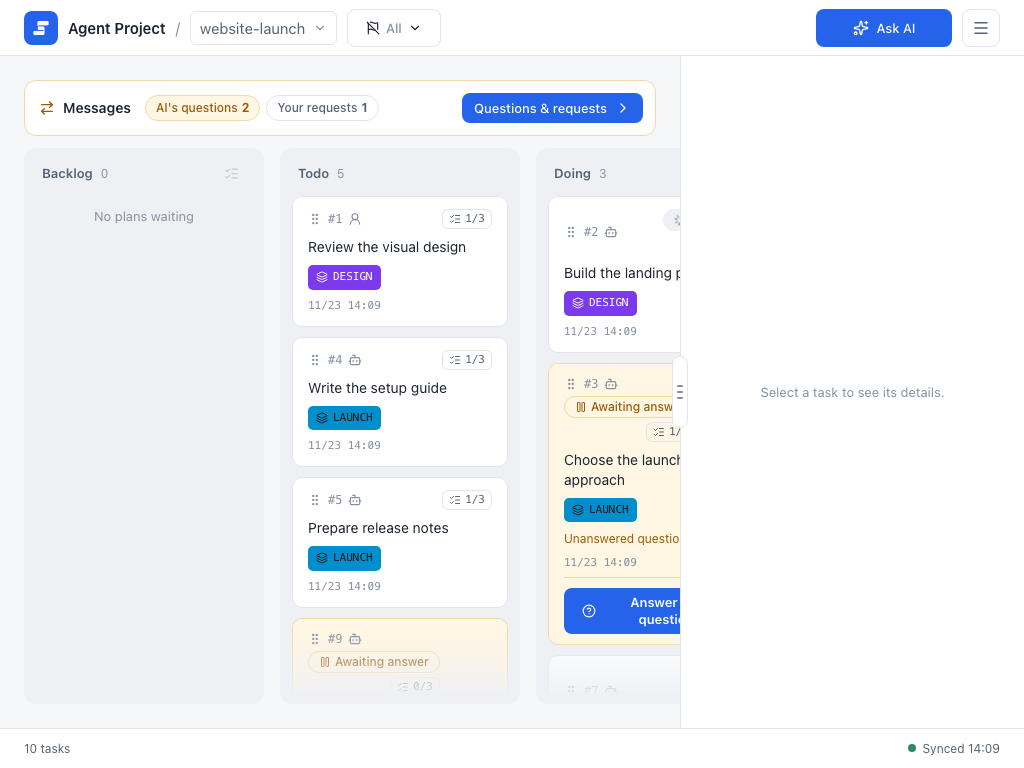
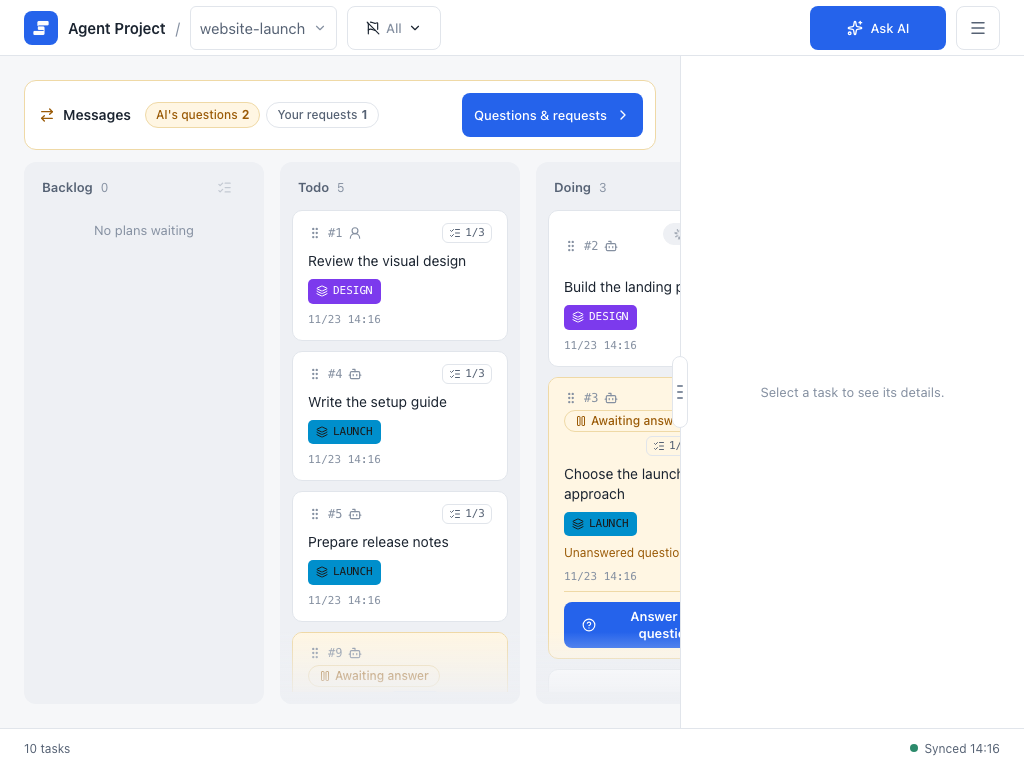
fix: widen the board lanes only on touch screens
Keep the PC layout as it was: lanes stay at a 200px minimum for a fine
pointer. Only a coarse pointer (a tablet) gets 240px lanes and sideways
scrolling. Add a touch E2E check, capture the tablet README images with
touch emulation, and describe the touch-only behavior in the guide.

diff --git a/e2e/tests/layout.spec.ts b/e2e/tests/layout.spec.ts
@@ -144,11 +144,11 @@ for (const width of [1024, 1280, 1920]) {
     expect(boxes[0].x).toBeLessThan(boxes[1].x);
     expect(boxes[1].x).toBeLessThan(boxes[2].x);
     expect(boxes[2].x).toBeLessThan(boxes[3].x);
-    for (const lane of boxes) expect(lane.width).toBeGreaterThanOrEqual(240);
+    for (const lane of boxes) expect(lane.width).toBeGreaterThanOrEqual(200);
     const panelBox = await box(panel(page));
     expect(panelBox.x + panelBox.width).toBe(width);
-    // At 1024px the four lanes scroll sideways inside the board, so only windows of 1400px and wider show them all (four 240px lanes, the 360px panel, and the insets).
-    if (width >= 1400) expect(boxes[3].x + boxes[3].width).toBeLessThanOrEqual(panelBox.x);
+    // At 1024px the four lanes scroll sideways inside the board, so only the wider windows show them all.
+    if (width >= 1280) expect(boxes[3].x + boxes[3].width).toBeLessThanOrEqual(panelBox.x);
     await expect(handle(page)).toBeVisible();
     await task(page, 8).click();
     await expect(panel(page).getByRole('button', { name: 'Close details' })).toBeVisible();
@@ -157,12 +157,12 @@ for (const width of [1024, 1280, 1920]) {
   });
 }
 
-test('1024px: the default width fits beside four lanes (each stays at least 240px)', async ({ page }) => {
+test('1024px: the default width fits beside four lanes (each stays at least 200px)', async ({ page }) => {
   await open(page, 1024);
-  // Four lanes of 240px do not fit beside the default width: the panel shrinks to its smallest width (344px) and the lanes scroll.
+  // Four lanes of 200px do not fit beside the default width: the panel shrinks to its smallest width (344px) and the lanes scroll.
   await expect.poll(() => panelWidth(page)).toBe(344);
   const lanes = await page.locator('.lane').evaluateAll((els) => els.map((e) => e.getBoundingClientRect().width));
-  for (const w of lanes) expect(w).toBeGreaterThanOrEqual(240);
+  for (const w of lanes) expect(w).toBeGreaterThanOrEqual(200);
 });
 
 test('1920px: the extra width goes to the lanes and the panel keeps its width', async ({ page }) => {
@@ -232,7 +232,7 @@ test('1280px: the handle is a vertical separator and the drag stops at the limit
   await dragBy(page, -2000);
   expect(await panelWidth(page)).toBe(560);
   const lanes = await page.locator('.lane').evaluateAll((els) => els.map((e) => e.getBoundingClientRect().width));
-  for (const w of lanes) expect(w).toBeGreaterThanOrEqual(240);
+  for (const w of lanes) expect(w).toBeGreaterThanOrEqual(200);
 
   await dragBy(page, 2000);
   expect(await panelWidth(page)).toBe(280);
@@ -350,4 +350,23 @@ test('evidence screenshots at 1280x900', async ({ page }, testInfo) => {
   await dragBy(page, -120);
   await page.mouse.move(300, 860);
   await page.screenshot({ path: testInfo.outputPath('panel-widened.png') });
+});
+
+test.describe('touch screen', () => {
+  test.use({ hasTouch: true });
+
+  test('1024px: the lanes are 240px wide and the lanes area scrolls sideways', async ({ page }) => {
+    await open(page, 1024, 768);
+    expect(await page.evaluate(() => matchMedia('(pointer: coarse)').matches)).toBe(true);
+    const widths = await page.locator('.lane').evaluateAll((els) => els.map((e) => Math.round(e.getBoundingClientRect().width)));
+    expect(widths).toEqual([240, 240, 240, 240]);
+    const lanes = await page.locator('.board__lanes').evaluate((el) => {
+      el.scrollLeft = el.scrollWidth;
+      const last = document.querySelector('.lane:last-child')!.getBoundingClientRect();
+      return { overflow: getComputedStyle(el).overflowX, scrolls: el.scrollWidth > el.clientWidth, gap: el.getBoundingClientRect().right - last.right };
+    });
+    expect(lanes.overflow).toBe('auto');
+    expect(lanes.scrolls).toBe(true);
+    expect(Math.round(lanes.gap)).toBe(24);
+  });
 });

diff --git a/web/src/shared/styles/app.css b/web/src/shared/styles/app.css
@@ -297,7 +297,7 @@ ol {
 
 .board__lanes {
   display: grid;
-  grid-template-columns: repeat(4, minmax(240px, 1fr));
+  grid-template-columns: repeat(4, minmax(200px, 1fr));
   align-items: stretch;
   gap: 16px;
   height: 100%;
@@ -305,13 +305,22 @@ ol {
   padding: 24px;
 }
 
-/* Four lanes of at least 240px (readable on a 1024px tablet beside the detail panel): a board narrower than
-   that scrolls the lanes sideways inside the board, and the padding at the end keeps the last lane clear. */
-.board__lanes {
-  overflow-x: auto;
+/* The band of messages sits above the lanes; the lanes take the height left. */
+/* Four lanes of at least 200px: a window narrower than that scrolls the lanes sideways inside the board. */
+@media (max-width: 1279px) {
+  .board__lanes {
+    overflow-x: auto;
+  }
 }
 
-/* The band of messages sits above the lanes; the lanes take the height left. */
+/* A touch screen (a tablet in landscape) has no room for four 200px lanes beside the detail panel: keep the lanes
+   readable at 240px and scroll the rest sideways; the padding at the end keeps the last lane clear. */
+@media (pointer: coarse) {
+  .board__lanes {
+    grid-template-columns: repeat(4, minmax(240px, 1fr));
+    overflow-x: auto;
+  }
+}
 
 .board--with-band {
   display: flex;

diff --git a/e2e/tests/responsive.spec.ts b/e2e/tests/responsive.spec.ts
@@ -67,7 +67,7 @@ for (const width of [1024, 1280, 1920]) {
       expect(todo.x).toBeLessThan(doing.x);
       expect(doing.x).toBeLessThan(done.x);
       // At 1024px the four lanes scroll sideways inside the board.
-      if (width >= 1400) expect(done.x + done.width).toBeLessThanOrEqual(panel.x);
+      if (width >= 1280) expect(done.x + done.width).toBeLessThanOrEqual(panel.x);
       // The lanes are as tall as the area between the header and the footer.
       expect(new Set([backlog.height, todo.height, doing.height, done.height]).size).toBe(1);
     }

diff --git a/web/test/layout.test.ts b/web/test/layout.test.ts
@@ -38,7 +38,7 @@ describe('desktop layout', () => {
     expect(rule(css, '.board__lanes')).toMatch(/padding:\s*24px/);
     expect(rule(css, '.board__lanes')).toMatch(/gap:\s*16px/);
     expect(rule(css, '.board__lanes')).toMatch(
-      /grid-template-columns:\s*repeat\(4, minmax\(240px, 1fr\)\)/,
+      /grid-template-columns:\s*repeat\(4, minmax\(200px, 1fr\)\)/,
     );
     expect(rule(css, '.lane')).toMatch(/padding:\s*12px/);
     expect(rule(css, '.lane')).toMatch(/border-radius:\s*var\(--radius-lane\)/);

diff --git a/docs/ja/guide/watch/board.md b/docs/ja/guide/watch/board.md
@@ -152,7 +152,7 @@ title: カンバン
 
 ウィンドウの幅が768ピクセル未満のとき、またスマートフォンでは、カンバンはレーンを横に並べる代わりにモバイル向けの表示になります。バックログ・未着手・進行中・完了のタブに件数が表示され、その下に一度に一つのレーンが表示されます（開いたときは進行中のレーンです）。画面の下には、**カンバン**・**メッセージ**・**依頼**・**アーカイブ**・**設定**のバーがあり、**メッセージ**には回答を待つ質問の数が出て、一覧を開けます。タブをタップするか横にスワイプするとレーンが切り替わります。タスクを選ぶとドロワーで内容を読み、条件にチェックを付け、判断の依頼に回答できます。タスクを長押ししてスワイプすると、隣のレーンへの移動やアーカイブができ（まだ着手されていない「未着手」のタスクを右へスワイプすると、「バックログ」へ戻すボタンが出ます。バックログでは、計画を右へスワイプすると未着手へ動かすボタンが、左へスワイプすると複数を送るための選択ボタンが出ます。レーンを右へ、先頭の端を越えてスワイプしても選択モードが始まります）、完了レーンの端を越えて左へスワイプすると、完了したタスクをすべて選んだ状態でアーカイブの選択が始まります（[アーカイブ](#archive)を参照）。下部のバーの**アーカイブ**ではアーカイブ済みのタスクを確認し、左へスワイプすると復元できます。プロジェクトの切り替えはヘッダーに残り、設定は下部のバーにあります。タスクの追加と編集は、幅のあるウィンドウで行います。
 
-タブレットの横向きなど、幅が768ピクセル以上でも詳細パネルの横に240ピクセル以上のレーンを4本並べられないウィンドウでは、レーンは横に並んだまま、その幅を保ちます。収まらないレーンへは、カンバンを横にスクロールして移ります。最後のレーンの右端には、最初のレーンの左端と同じ余白があります。レーンの上のメッセージの帯は、レーンをスクロールしても動きません。
+iPadの横向きのようなタッチ画面では、詳細パネルの横でレーンが狭くなる場合でも、レーンは240ピクセル以上の幅を保ちます。収まらないレーンへは、カンバンを横にスクロールして移ります。最後のレーンの右端には、最初のレーンの左端と同じ余白があります。レーンの上のメッセージの帯は、レーンをスクロールしても動きません。
 
 表示はウィンドウの幅に合わせてその場で切り替わります。選んだプロジェクトは変わらず、入力したものの送信前の回答も、二つの表示を行き来しても残ります。モバイル向けの表示は[リモートアクセス](./remote-access)で説明しています。
 

diff --git a/docs/guide/watch/board.md b/docs/guide/watch/board.md
@@ -154,7 +154,7 @@ A task's plan is set on the PC. The phone can filter by version, add a version, 
 
 When the window is narrower than 768 pixels, and on a phone, the board shows the mobile layout instead of the lanes side by side: tabs for Backlog, Todo, Doing, and Done with their counts, one lane at a time under them (the board opens on Doing), and a bottom bar with **Board**, **Messages**, **Ask**, **Archive**, and **Settings**; **Messages** shows the number of questions that wait on you and opens the list. Tap a tab or swipe sideways to change lanes. Choose a task to read it in a drawer, check its conditions, and answer a decision. Hold a task and swipe it to move it to the next lane or to archive it (swiping a Todo task to the right shows a button that takes it back to the Backlog if nobody has started it; in the Backlog, swiping a plan to the right shows a button that moves it to Todo and swiping it to the left offers the select button for sending several plans, and swiping the lane to the right past its start starts the selection mode, see [Backlog plans](#backlog-plans)), swipe left past the end of the Done lane to start the archive selection with every completed task picked (see [Archive](#archive)), and use **Archive** in the bottom bar to review archived tasks and restore one by swiping it left. The project switcher stays in the header; settings are in the bottom bar. Adding and editing tasks are for a wider window.
 
-On a tablet in landscape, and in any window from 768 pixels wide that cannot fit four lanes of at least 240 pixels beside the details panel, the lanes stay side by side and keep that width. The board scrolls sideways to reach the lanes that do not fit, and the last lane has the same space at its right edge as the first has at its left. The band of messages above the lanes stays in place while the lanes scroll.
+On a touch screen such as an iPad in landscape, the lanes stay at least 240 pixels wide when they would be narrower beside the details panel. The board scrolls sideways to reach the lanes that do not fit, and the last lane has the same space at its right edge as the first has at its left. The band of messages above the lanes stays in place while the lanes scroll.
 
 The layout follows the window as you resize it. The project you chose stays, and an answer you have entered but not yet sent is kept when you switch between the two layouts. The mobile layout is described in [Remote access](./remote-access).
 
